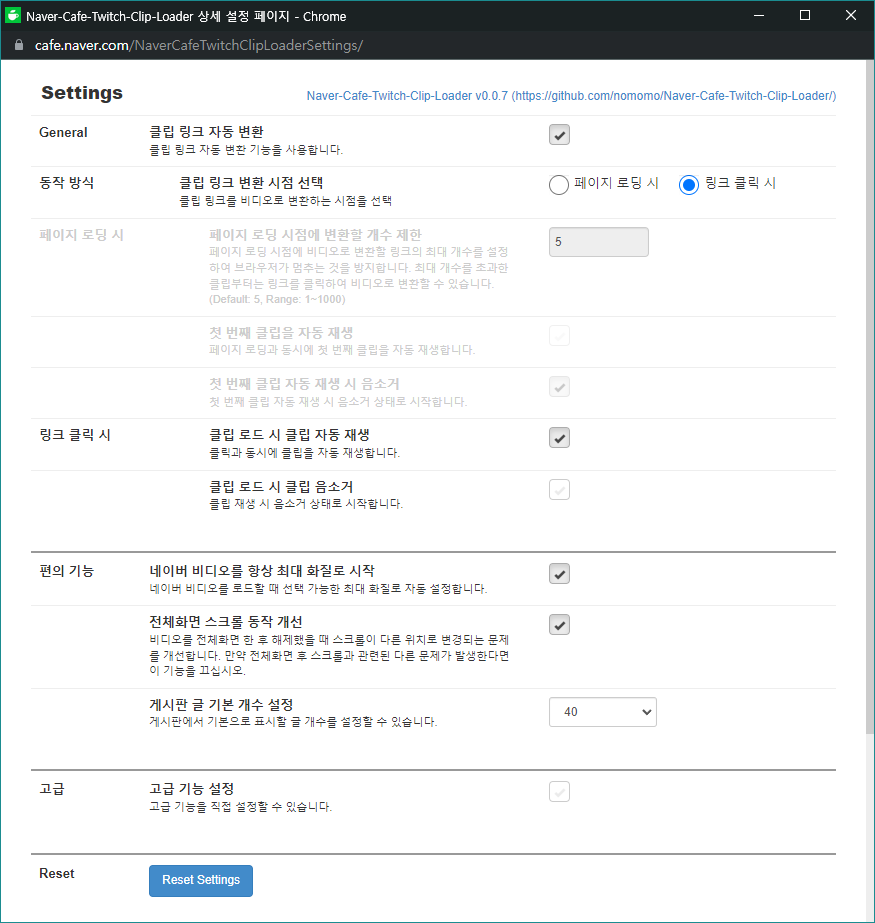
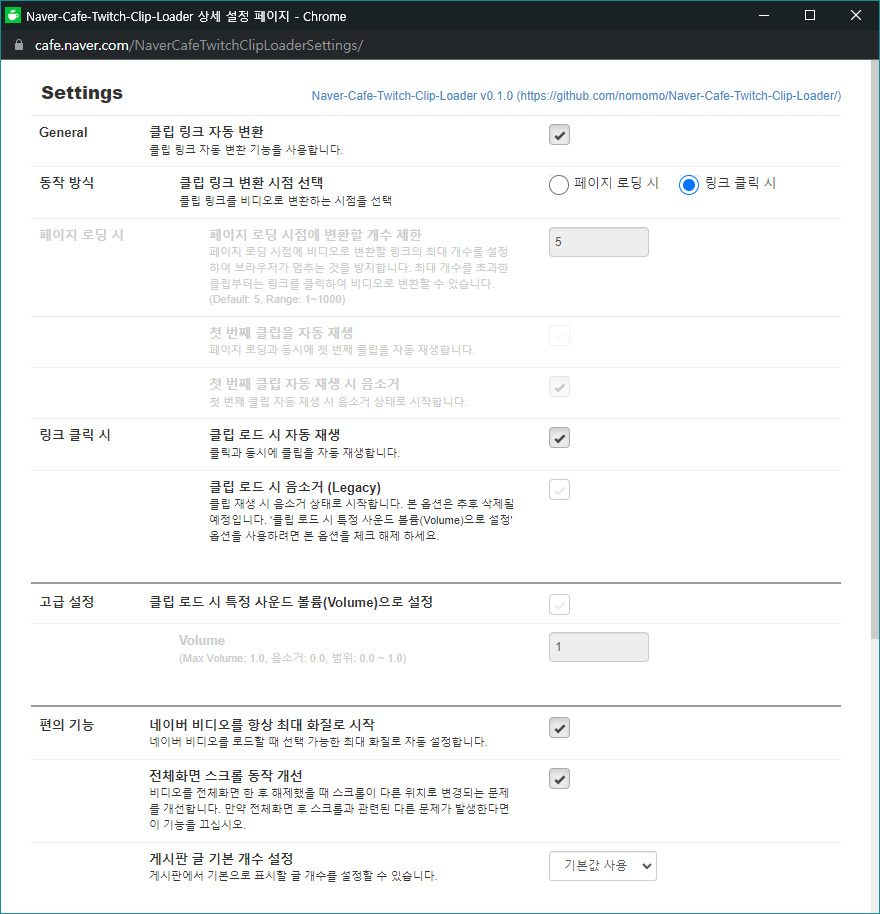
0.1.0

diff --git a/Naver-Cafe-Twitch-Clip-Loader.user.js b/Naver-Cafe-Twitch-Clip-Loader.user.js
@@ -1,7 +1,7 @@
 // ==UserScript==
 // @name        Naver-Cafe-Twitch-Clip-Loader
 // @namespace   Naver-Cafe-Twitch-Clip-Loader
-// @version     0.0.9
+// @version     0.1.0
 // @description Userscript that makes it easy to watch Twitch clips on Naver Cafe
 // @author      Nomo
 // @include     https://cafe.naver.com/*
@@ -33,11 +33,13 @@
 
 (async () => {
     'use strict';
-    if(window.self === window.top && /(^https:\/\/clips\.twitch\.tv\/)/.test(document.location.href)) return;
+    if(window.self === window.top && /(^https:\/\/clips\.twitch\.tv\/)/.test(document.location.href)) return;   
+    if(window.self !== window.top && /(^https:\/\/clips\.twitch\.tv\/)/.test(document.location.href) && !(/(parent=(cafe|www)?\.?naver\.com)/.test(document.location.href))) return;
 
     console.log("[NCTCL]   Naver-Cafe-Twitch-Clip-Loader", document.location.href);
     var DEBUG = await GM.getValue("DEBUG", false);
     var isTwitch = /(^https:\/\/clips\.twitch\.tv\/)/.test(document.location.href);
+    var isTwitchMuted = (isTwitch && document.location.href.indexOf("muted=true"));
 
     ////////////////////////////////////////////////////////////////////////////////////
     // libs
@@ -135,7 +137,7 @@
             radio_enable_value: "clickRequired",
             type: "checkbox",
             value: true,
-            title: "클립 로드 시 클립 자동 재생",
+            title: "클립 로드 시 자동 재생",
             desc: "클릭과 동시에 클립을 자동 재생합니다."
         },
         clickRequiredMuted: {
@@ -144,12 +146,25 @@
             radio_enable_value: "clickRequired",
             type: "checkbox",
             value: false,
-            title: "클립 로드 시 클립 음소거",
-            desc: "클립 재생 시 음소거 상태로 시작합니다."
+            title: "클립 로드 시 음소거 (Legacy)",
+            desc: "클립 재생 시 음소거 상태로 시작합니다. 본 옵션은 추후 삭제될 예정입니다. '클립 로드 시 특정 사운드 볼륨(Volume)으로 설정' 옵션을 사용하려면 본 옵션을 체크 해제 하세요."
+        },
+        set_volume_when_stream_starts: {
+            category: "advanced", 
+            category_name: "고급 설정",
+            depth: 1,
+            type: "checkbox",
+            value: false,
+            title: {en:"Set the volume when stream starts", ko:"클립 로드 시 특정 사운드 볼륨(Volume)으로 설정"},
+            desc: ""
+        },
+        target_start_volume : {
+            category:"type", depth:2, type: "text", value: 1.0, valid:"number", min_value:0.0, max_value:1.0,
+            title:{en:"Volume", ko:"Volume"},
+            desc:{en:"(Max Volume: 1.0, Mute: 0.0, Range: 0.0 ~ 1.0)", ko:"(Max Volume: 1.0, 음소거: 0.0, 범위: 0.0 ~ 1.0)"}
         },
         videoWidth : {
             category:"advanced",
-            category_name: "고급 사용자 설정",
             depth:2,
             under_dev:true,
             type: "text",
@@ -229,7 +244,7 @@
                 "50":{title:"50"}
             }
         },
-        under_dev : { category:"advanced", category_name:"고급", depth:1, type: "checkbox", value: false, title:"고급 기능 설정", desc:"고급 기능을 직접 설정할 수 있습니다." },
+        under_dev : { category:"advanced", category_name:"고급", depth:1, type: "checkbox", value: false, title:"숨겨진 고급 기능 설정", desc:"숨겨진 고급 기능을 직접 설정할 수 있습니다." },
     };
     GM_addStyle(`
     body #GM_setting {min-width:800px;}
@@ -379,6 +394,16 @@
             }
         });
 
+        // set_volume_when_stream_starts
+        var is_volume_changed = false;
+        if(GM_SETTINGS.set_volume_when_stream_starts){
+            localStorage.setItem('volume', GM_SETTINGS.target_start_volume);
+    
+            if(GM_SETTINGS.target_start_volume !== 0){
+                localStorage.setItem('video-muted', {default:false});
+            }
+        }
+
         $(document).arrive("video", { onlyOnce: true, existing: true }, function (elem) {
             //if(elem === undefined || !elem.src) return;
 
@@ -396,7 +421,27 @@
                 NOMO_DEBUG('ended', e);
                 window.parent.postMessage({"type":"NCTCL", "event":"ended", "clipId":clipId}, "https://cafe.naver.com");
             });
+
+            // set_volume_when_stream_starts
+            try {
+                if(!isTwitchMuted && GM_SETTINGS.set_volume_when_stream_starts && !is_volume_changed){
+                    NOMO_DEBUG("set_volume");
+                    if(video.volume !== undefined){
+                        NOMO_DEBUG("MUTE?", video.muted, "CURRENT VOLUME", video.volume, "TARGET VOLUME", GM_SETTINGS.target_start_volume);
+                        setTimeout(function(){
+                            if(GM_SETTINGS.target_start_volume !== 0.0){
+                                video.muted = false;
+                            }
+                            video.volume = GM_SETTINGS.target_start_volume;
+                            is_volume_changed = true;
+                        },100);
+                    }
+                }
+            } catch (e) {
+                NOMO_DEBUG("ERROR FROM set_volume_when_stream_starts", e);
+            }
         });
+
         return;
     }
 

diff --git a/README.md b/README.md
@@ -56,6 +56,11 @@ Naver-Cafe-Twitch-Clip-Loader 의 설치 방법을 설명합니다.
 
 ## Change log
 
+### 0.1.0 (Jun. 04, 2022)
+
+- 기능 추가
+  - "클립 재생 시 특정 사운드 볼륨(Volume)으로 설정" 기능 추가
+
 ### 0.0.9 (Mar. 31, 2022)
 
 - 기능 추가
